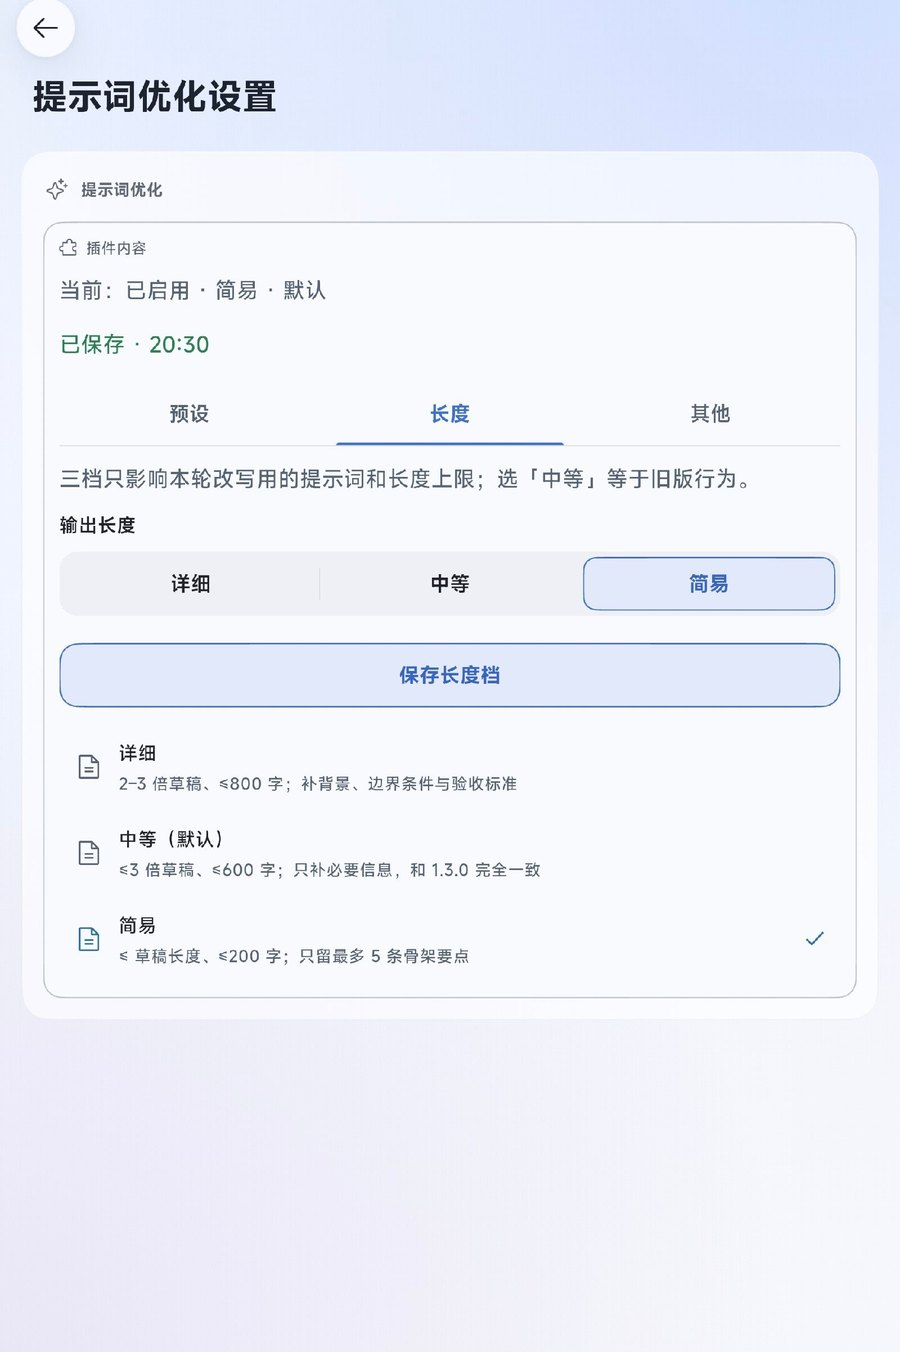
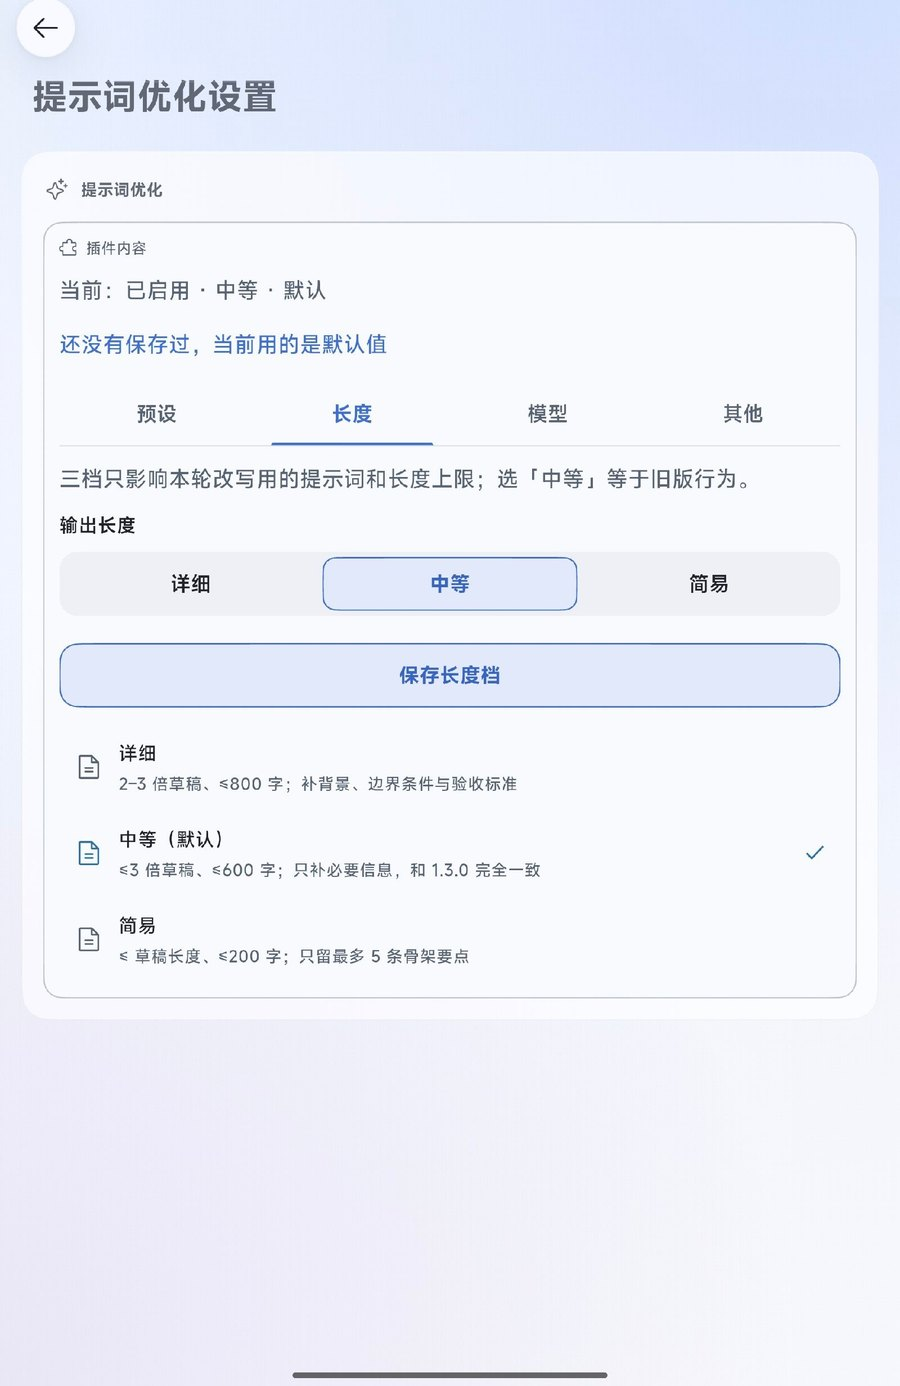
docs(1.5.2): 换 1.5.2 真机截图 + 重写项目介绍
- 预设 / 长度 / 模型 / 其他 四张真机截图，仅裁掉系统状态栏（其余原样保留）
- 删除旧的缺陷复现图 settings-model-before.jpg
- README 顶部重写：一句话定位 + 1.5.2 四项能力（9 套预设 / 长度三档 / 模型分组 / 其他开关）+ 兼容说明
- README.en 同步；版本 badge 与安装链接指向 v1.5.2
- CHANGELOG 补截图与介绍说明

diff --git a/README.md b/README.md
@@ -1,17 +1,23 @@
 # ✦ 一句话 → 好提示词 · Prompt Polish
 
-![version](https://img.shields.io/badge/version-1.5.0-4d6bfe)
+![version](https://img.shields.io/badge/version-1.5.2-4d6bfe)
 ![platform](https://img.shields.io/badge/platform-dsh--go%20%C2%B7%20Android-3ddc84)
 ![license](https://img.shields.io/badge/license-MIT-blue)
 [![check](https://github.com/usi112/dsh-go-prompt-polish/actions/workflows/check.yml/badge.svg)](https://github.com/usi112/dsh-go-prompt-polish/actions/workflows/check.yml)
 
-**dsh-go 输入框上方的「✦ 优化提示词」胶囊**：草稿写完别急着发，点一下——**当前会话自己的模型**把它重写成一条更清晰的提示词。确认页先给你看全文，复制还是追加，你说了算。
+**dsh-go 输入框上方的「✦ 优化提示词」胶囊**：草稿写完别急着发，点一下——当前会话的模型（或你指定的模型）把它重写成一条更清晰的提示词：目标、背景、要求、交付形式一次补齐。确认页先给你看全文，复制还是追加，你说了算。
 
 不发送消息 · 不改对话内容 · 不额外联网（只走你已配置的模型）
 
-> 仓库 `dsh-go-prompt-polish` · 插件包名 `local-prompt-polish`（安装目录用这个名字）
+**1.5.2 能做什么**
 
-1.5.0 的设置页有 **9 套内置预设**（写代码 / 代码审查 / 排障 / 写文档 / 写作润色 / 数据与 SQL / 需求与产品 / 学习讲解 + 默认）、长度三档、固定模型与其他开关，全部落在插件目录的 `.config.json`；什么都不配时行为和 1.3.0 一样。
+- **9 套场景预设**：默认、写代码、代码审查、排障、写文档、写作润色、数据与 SQL、需求与产品、学习讲解。每套都能改内容、能设为默认、能一键恢复出厂；内置的名字和 id 不会被改坏。
+- **长度三档**：详细（2–3 倍、≤800 字）/ 中等（≤3 倍、≤600 字，与 1.3.0 逐字一致）/ 简易（≤草稿长度、≤200 字），档位同时决定提示词措辞与输出上限。
+- **模型按来源分组**：会话默认 / 官方模型 / 其他来源（中转、第三方、识别不出的都归这里），可以点选，也可以手填 provider + model；不改这里就跟随当前会话的模型。
+- **其他开关**：胶囊总开关、保留专有名词、保留代码与路径、确认页显示改写说明、附加指令（≤500 字）。
+- 所有设置写在插件目录的 `.config.json`（原子写、`gitignore`），**什么都不配时行为和 1.3.0 一样**。
+
+> 仓库 `dsh-go-prompt-polish` · 插件包名 `local-prompt-polish`（安装目录用这个名字）
 
 ![确认页（真机截图）：原文 / 优化稿 / 三个按钮](docs/preview/confirm.jpg)
 
@@ -88,11 +94,11 @@ dsh-go 原生插件的 effect 白名单只有 `insert` / `copy` / `toast` / `com
 
 ![设置页 · 预设](docs/preview/settings-presets.jpg)
 
-真机截图（App 1.0.15）· 1.4.0；1.5.0 在此页基础上多了「模型」tab（改法见下表）
+真机截图（App 1.0.15）· 1.5.2 · 只裁掉了系统状态栏
 
-| 长度 tab | 其他 tab |
-|---|---|
-| ![长度](docs/preview/settings-length.jpg) | ![其他](docs/preview/settings-other.jpg) |
+| 长度 | 模型 | 其他 |
+|---|---|---|
+| ![长度](docs/preview/settings-length.jpg) | ![模型](docs/preview/settings-model.jpg) | ![其他](docs/preview/settings-other.jpg) |
 
 三条路都到同一个面板 `polish-settings`：
 
@@ -134,7 +140,7 @@ dsh-go 原生插件的 effect 白名单只有 `insert` / `copy` / `toast` / `com
 # 1) 放进插件目录
 mkdir -p "$DSH_HOME/dsh-go/plugins"
 curl -L -o /tmp/p.tgz \
-  https://github.com/usi112/dsh-go-prompt-polish/releases/download/v1.5.0/local-prompt-polish-1.5.0.tgz
+  https://github.com/usi112/dsh-go-prompt-polish/releases/download/v1.5.2/local-prompt-polish-1.5.2.tgz
 tar xzf /tmp/p.tgz -C "$DSH_HOME/dsh-go/plugins/"
 
 # 2) 注册进当前 profile（手机本机引擎是 web）

diff --git a/README.en.md b/README.en.md
@@ -1,6 +1,6 @@
 # ✦ One line in, a real prompt out · Prompt Polish
 
-![version](https://img.shields.io/badge/version-1.5.0-4d6bfe)
+![version](https://img.shields.io/badge/version-1.5.2-4d6bfe)
 ![platform](https://img.shields.io/badge/platform-dsh--go%20%C2%B7%20Android-3ddc84)
 ![license](https://img.shields.io/badge/license-MIT-blue)
 
@@ -48,11 +48,11 @@ Post-processing strips a leading restatement of the draft; a pure echo is treate
 
 ![settings page · presets](docs/preview/settings-presets.jpg)
 
-On-device screenshot (app 1.0.15) · 1.4.0 · system status bar cropped, model and workspace names blurred
+On-device screenshot (app 1.0.15) · 1.5.2 · only the system status bar was cropped
 
-| Length tab | More tab |
-|---|---|
-| ![length](docs/preview/settings-length.jpg) | ![more](docs/preview/settings-other.jpg) |
+| Length | Model | More |
+|---|---|---|
+| ![length](docs/preview/settings-length.jpg) | ![model](docs/preview/settings-model.jpg) | ![more](docs/preview/settings-other.jpg) |
 
 Mock-up, not a real device screenshot · 1.4.0
 
@@ -79,7 +79,7 @@ Field-by-field detail, the three tiers and the v1 fallback page: [docs/settings.
 ```sh
 mkdir -p "$DSH_HOME/dsh-go/plugins"
 curl -L -o /tmp/p.tgz \
-  https://github.com/usi112/dsh-go-prompt-polish/releases/download/v1.5.0/local-prompt-polish-1.5.0.tgz
+  https://github.com/usi112/dsh-go-prompt-polish/releases/download/v1.5.2/local-prompt-polish-1.5.2.tgz
 tar xzf /tmp/p.tgz -C "$DSH_HOME/dsh-go/plugins/"
 dsh plugin --profile web add "$DSH_HOME/dsh-go/plugins/local-prompt-polish"
 ```

diff --git a/CHANGELOG.md b/CHANGELOG.md
@@ -6,6 +6,7 @@
 - 分组依据只用宿主已有信息（不猜模型名）：provider id 或 provider 名称命中官方厂商关键字（deepseek、openai、anthropic、google、xai、mistral、moonshot、qwen、zhipu、glm、minimax、doubao、baichuan、stepfun…）→ 官方；provider id 带 `custom-` / `relay-` / `proxy-` / `mirror-` / `cnkey` / `oneapi` / `newapi` / `modlens-` 前缀，或名称含「中转 / 自定义 / 第三方 / 代理」→ 其他来源；**识别不出来的一律归「其他来源」**，行内仍显示原始 `provider · model`。
 - 空组显示一行不可点说明（「这一组暂时没有模型」），三组都非空，1.5.1 修掉的「暂无数据」不会回归。
 - 自测 151 → 159 项（官方/中转/第三方混排的归属与顺序、空组说明行、「会话默认模型」仍在首位）。
+- README 设置章节换成 1.5.2 真机截图（预设 / 长度 / 模型 / 其他四张，只裁掉系统状态栏），补写项目介绍。
 
 ## 1.5.1 — 修复「模型」页显示「暂无数据」
 
